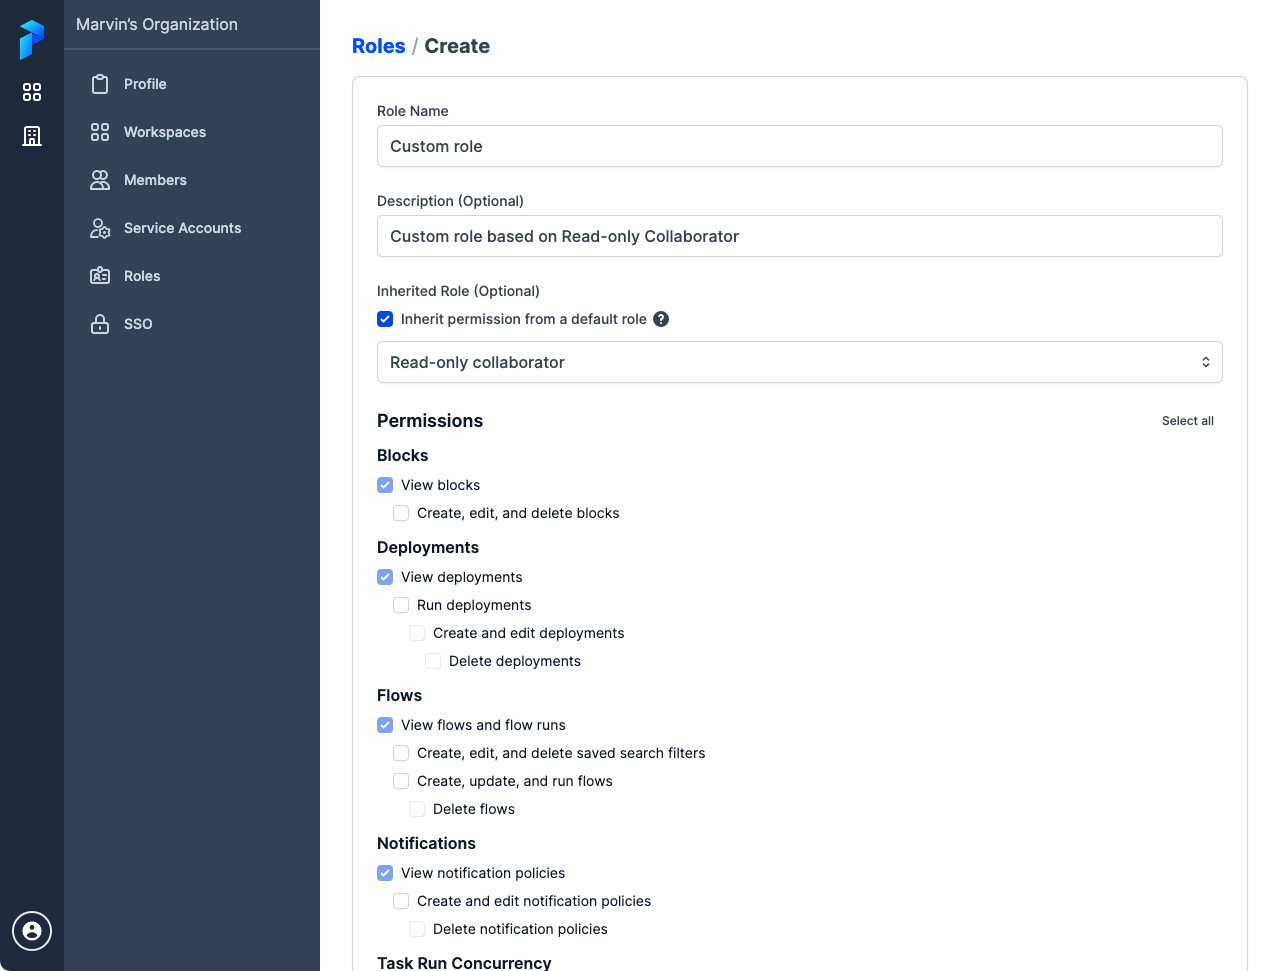
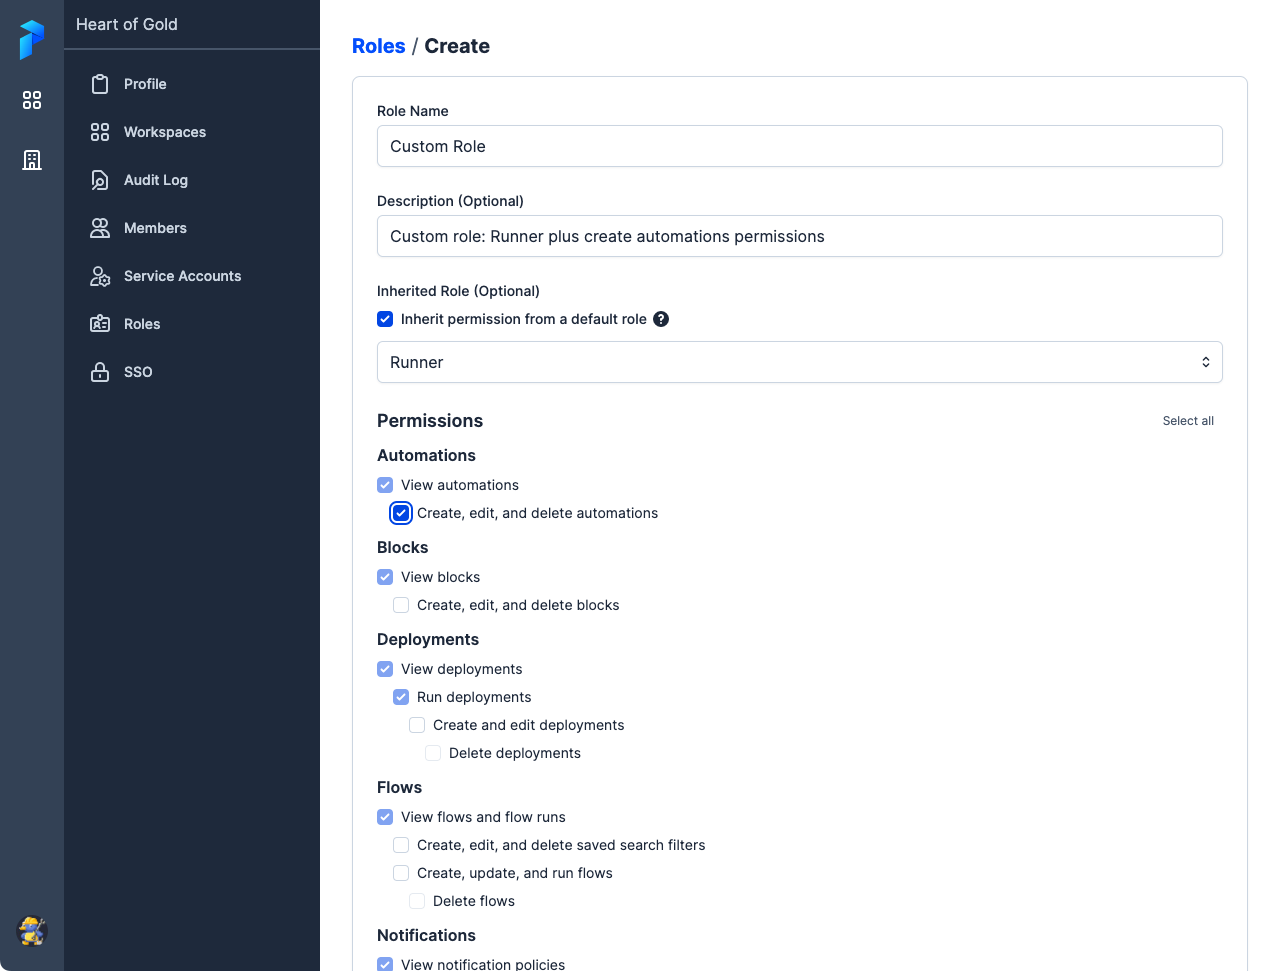
Update roles and permissions in documentation (#8263)

diff --git a/docs/ui/roles.md b/docs/ui/roles.md
@@ -46,9 +46,10 @@ The following built-in roles have permissions within a given workspace in Prefec
 
 | Role | Abilities |
 | --- | --- |
-| Owner | &bull; Run flows. <br> &bull; View and delete flow runs within a workspace. <br> &bull; Create, view, edit, and delete deployments within a workspace. <br> &bull; Create, view, edit, and delete work queues within a workspace. <br> &bull; Create, view, edit, and delete blocks within a workspace. <br> &bull; Create, view, edit, and delete notifications within a workspace. <br> &bull; Add and remove organization members, and set their role within a workspace. <br> &bull; Set the workspace’s default workspace role for all users in the organization. <br> &bull; Set, view, edit workspace settings. |
-| Collaborator | &bull; Run flows within a workspace. <br> &bull; View and delete flow runs within a workspace. <br> &bull; Create, view, edit, and delete deployments within a workspace. <br> &bull; Create, view, edit, and delete work queues within a workspace. <br> &bull; Create, view, edit, and delete all blocks within a workspace. <br> &bull; Create, view, edit, and delete notifications within a workspace. <br> &bull; View workspace setting within a workspace. |
-| Read-only collaborator | &bull; View flow runs within a workspace. <br> &bull; View deployments within a workspace. <br> &bull; View all Work Queues. <br> &bull; View all Blocks. <br> &bull; View all Notifications. <br> &bull; View workspace settings (handle & description currently). |
+| Owner | &bull; Run flows. <br> &bull; View and delete flow runs within a workspace. <br> &bull; Create, view, edit, and delete deployments within a workspace. <br> &bull; Create, view, edit, and delete work queues within a workspace. <br> &bull; Create, view, edit, and delete blocks within a workspace. <br> &bull; Create, view, edit, and delete automations within a workspace. <br> &bull; Add and remove organization members, and set their role within a workspace. <br> &bull; Set the workspace’s default workspace role for all users in the organization. <br> &bull; Set, view, edit workspace settings. |
+| Developer | &bull; Run flows within a workspace. <br> &bull; View and delete flow runs within a workspace. <br> &bull; Create, view, edit, and delete deployments within a workspace. <br> &bull; Create, view, edit, and delete work queues within a workspace. <br> &bull; Create, view, edit, and delete all blocks within a workspace. <br> &bull; Create, view, edit, and delete automations within a workspace. <br> &bull; View workspace setting within a workspace. |
+| Runner | &bull; View flow runs within a workspace. <br> &bull; View and run deployments within a workspace. <br> &bull; View all work queues within a workspace. <br> &bull; View all blocks within a workspace. <br> &bull; View all automations within a workspace. <br> &bull; View workspace settings (handle and description currently). |
+| Viewer | &bull; View flow runs within a workspace. <br> &bull; View deployments within a workspace. <br> &bull; View all work queues within a workspace. <br> &bull; View all blocks within a workspace. <br> &bull; View all automations within a workspace. <br> &bull; View workspace settings (handle and description currently). |
 
 ## Custom workspace roles
 
@@ -75,6 +76,13 @@ To configure an inherited role when configuring a custom role, select the **Inhe
 ## Workspace role permissions
 
 The following permissions are available for custom roles.
+
+### Automations
+
+| Permission | Description |
+| --- | --- |
+| View automations | User can see configured automations within a workspace. |
+| Create, edit, and delete automations | User can create, edit, and delete automations within a workspace. Includes permissions of **View automations**. |
 
 ### Blocks
 